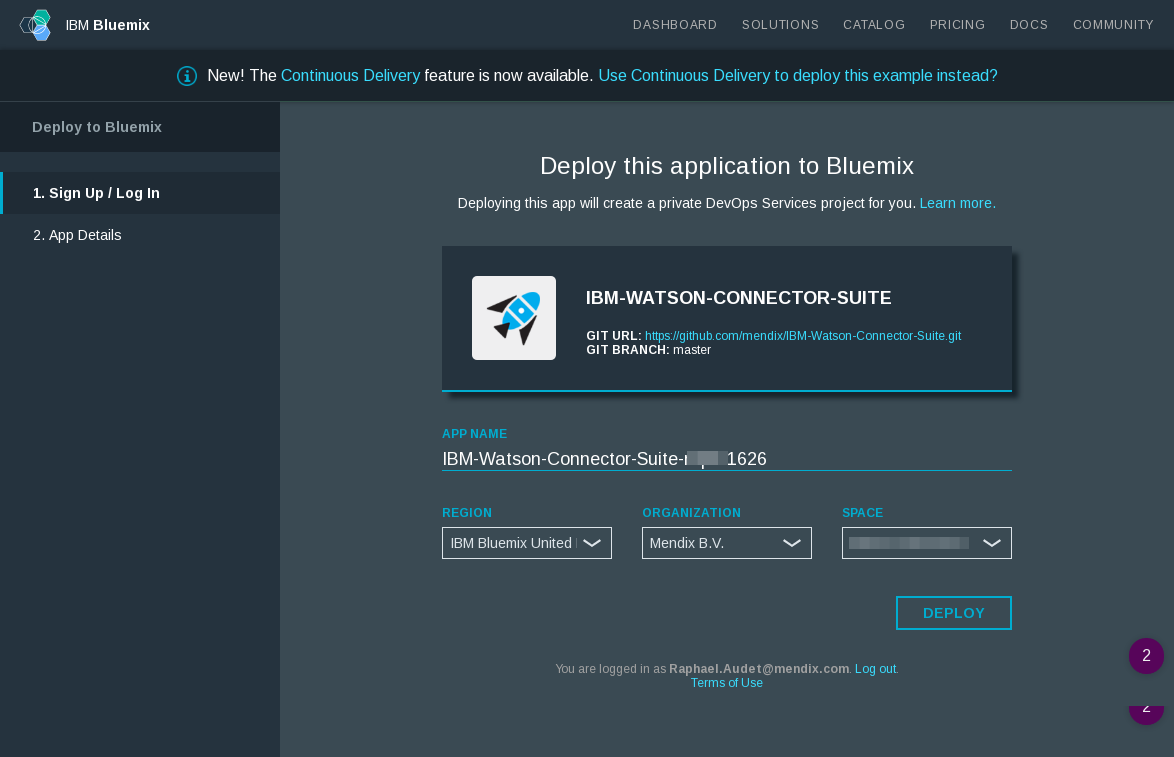
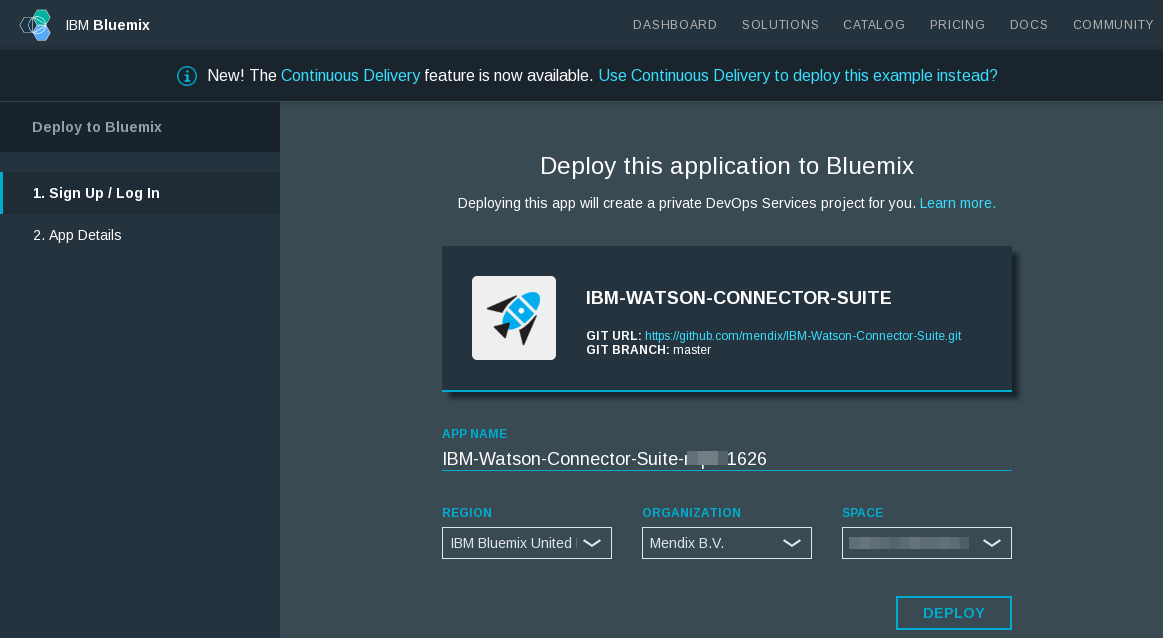
#973219 minor(doc) update screenshots

diff --git a/documentation/deploy-bluemix-button.md b/documentation/deploy-bluemix-button.md
@@ -1,22 +1,22 @@
 # Deploy the example IBM Watson Connector suite application to Bluemix
 
 1. Click on the "Deploy to Bluemix" button [![Deploy to Bluemix](https://bluemix.net/deploy/button.png)](https://bluemix.net/deploy?repository=https://github.com/mendix/IBM-Watson-Connector-Suite.git)
-![step 1: deploy to bluemix](https://raw.githubusercontent.com/mendix/IBM-Watson-Connector-Suite/e26fec646656f8b82c0089902aeb3cfc6a3e9577/documentation/images/deploy-example-1.png)
+![step 1: deploy to bluemix](https://raw.githubusercontent.com/mendix/IBM-Watson-Connector-Suite/0f2e4ceccbb6d5aa07a4dade7812c7746942f4f7/documentation/images/deploy-example-1.png)
 
 2. Deploying to Bluemix with use the IBM DevOps services, click on "Log In" (or "sign up" if you do not have an account)
-![step 2 : sign-in to bluemix](https://raw.githubusercontent.com/mendix/IBM-Watson-Connector-Suite/e26fec646656f8b82c0089902aeb3cfc6a3e9577/documentation/images/deploy-example-2.png)
+![step 2 : sign-in to bluemix](https://raw.githubusercontent.com/mendix/IBM-Watson-Connector-Suite/0f2e4ceccbb6d5aa07a4dade7812c7746942f4f7/documentation/images/deploy-example-2.png)
 
 3. Sign-in to Bluemix with your account
-![step 3 : provide bluemix login](https://raw.githubusercontent.com/mendix/IBM-Watson-Connector-Suite/e26fec646656f8b82c0089902aeb3cfc6a3e9577/documentation/images/deploy-example-3.png)
+![step 3 : provide bluemix login](https://raw.githubusercontent.com/mendix/IBM-Watson-Connector-Suite/0f2e4ceccbb6d5aa07a4dade7812c7746942f4f7/documentation/images/deploy-example-3.png)
 
 4. Provide your Bluemix account password to complete the sign-in
-![step 4 : provide bluemix password](https://raw.githubusercontent.com/mendix/IBM-Watson-Connector-Suite/e26fec646656f8b82c0089902aeb3cfc6a3e9577/documentation/images/deploy-example-4.png)
+![step 4 : provide bluemix password](https://raw.githubusercontent.com/mendix/IBM-Watson-Connector-Suite/0f2e4ceccbb6d5aa07a4dade7812c7746942f4f7/documentation/images/deploy-example-4.png)
 
 5. Provide the application name, the region, the organization and the space for your Bluemix application and click "Deploy"
-![step 5 : provide application details](https://raw.githubusercontent.com/mendix/IBM-Watson-Connector-Suite/e26fec646656f8b82c0089902aeb3cfc6a3e9577/documentation/images/deploy-example-5.png)
+![step 5 : provide application details](https://raw.githubusercontent.com/mendix/IBM-Watson-Connector-Suite/0f2e4ceccbb6d5aa07a4dade7812c7746942f4f7/documentation/images/deploy-example-5.png)
 
 6. The application will take a couple minutes to deploy, once the application has been deployed with success, click on "view your app"
-![step 6 : successfull deployment](https://raw.githubusercontent.com/mendix/IBM-Watson-Connector-Suite/e26fec646656f8b82c0089902aeb3cfc6a3e9577/documentation/images/deploy-example-6.png)
+![step 6 : successfull deployment](https://raw.githubusercontent.com/mendix/IBM-Watson-Connector-Suite/0f2e4ceccbb6d5aa07a4dade7812c7746942f4f7/documentation/images/deploy-example-6.png)
 
 7. You can now use the Mendix example IBM Watson Connector suite
-![step 7 use example application](https://raw.githubusercontent.com/mendix/IBM-Watson-Connector-Suite/e26fec646656f8b82c0089902aeb3cfc6a3e9577/documentation/images/deploy-example-7.png)
+![step 7 use example application](https://raw.githubusercontent.com/mendix/IBM-Watson-Connector-Suite/0f2e4ceccbb6d5aa07a4dade7812c7746942f4f7/documentation/images/deploy-example-7.png)
